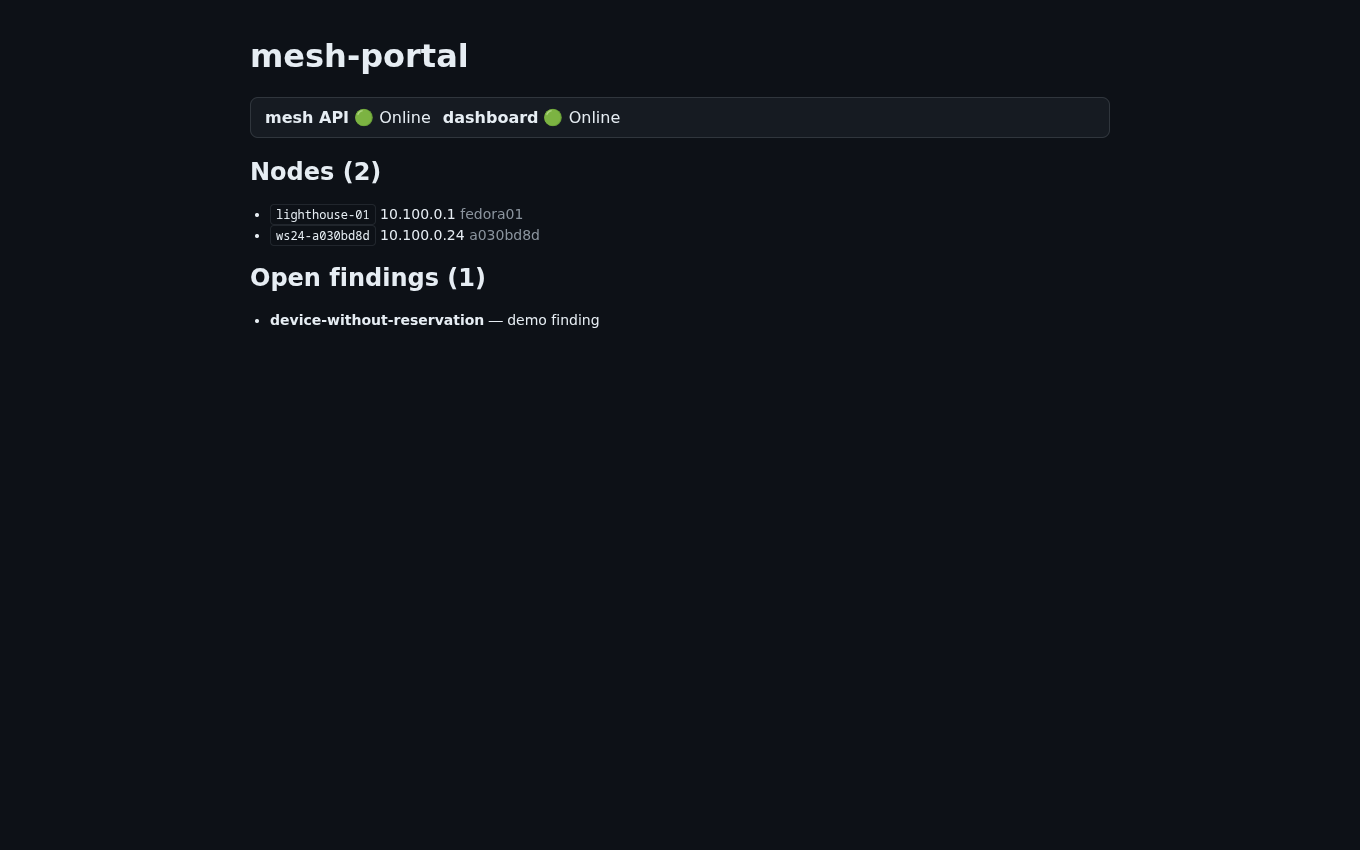
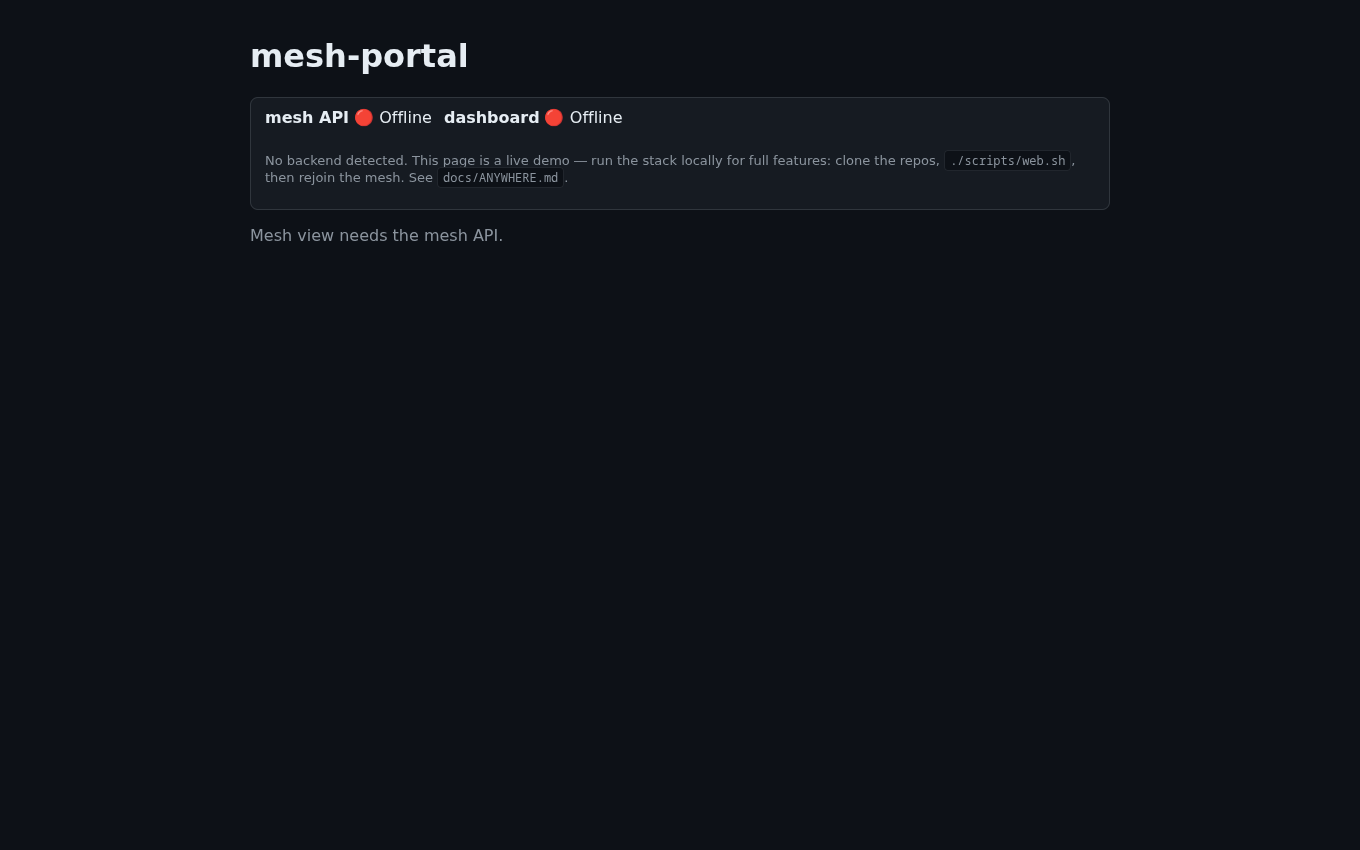
eval: both-devices matrix, retry+stagger, fresh page, LNA nuance docs

diff --git a/tests/interactive-eval.py b/tests/interactive-eval.py
@@ -34,6 +34,18 @@ STEPS = [
      "shot": "eval-03-portal-local.png"},
 ]
 
+# Both-devices API matrix: every backend on every node, from the one
+# browser. DOWN here is data, not noise — e.g. .45:5409 DOWN surfaces
+# the outstanding lighthouse adoption item.
+DEVICES = [
+    ("ws24-mesh-api", "https://10.100.0.24:5409/api/rev"),
+    ("ws24-loopback-api", "http://127.0.0.1:5409/api/rev"),
+    ("ws24-dashboard-mesh", "https://10.100.0.24:5099/api/rev"),
+    ("ws24-dashboard-loop", "https://127.0.0.1:5099/api/rev"),
+    ("lh-mesh-api", "http://10.100.0.1:5409/api/rev"),
+    ("lh-dashboard-mesh", "https://10.100.0.1:5099/api/rev"),
+]
+
 
 def classify(err_text, lna_state):
     t = (err_text or "").lower()
@@ -135,7 +147,7 @@ def main():
                   const out = {};
                   for (const [k, u] of Object.entries(urls)) {
                     try {
-                      const r = await fetch(u, {signal: AbortSignal.timeout(8000)});
+                      const r = await fetch(u, {signal: AbortSignal.timeout(12000)});
                       out[k] = 'OK ' + r.status;
                     } catch (e) { out[k] = 'ERR ' + String(e).slice(0, 80); }
                   }
@@ -150,17 +162,66 @@ def main():
                         {"step": st["name"] + ":" + k, "blocker": b_,
                          "fix": f_, "detail": v})
             report["steps"].append(rec)
-        b.close()
 
-    print(json.dumps(report, indent=1)[:4000])
-    slow_rank = sorted(report["steps"],
-                       key=lambda r: r.get("settle_ms", 0), reverse=True)
-    print("--- slowest first ---")
-    for r in slow_rank:
-        print("%s load=%sms settle=%sms blocker=%s" % (
-            r["step"], r.get("load_ms"), r.get("settle_ms"),
-            r.get("blocker")))
-    print("--- blockers: %d ---" % len(report["blockers"]))
+        # Both-devices matrix on a FRESH page (local preview origin:
+        # loopback + mesh IPs without LNA friction). Fresh page isolates
+        # connection state accumulated across the stepped navigations,
+        # which flaked loopback fetches under load.
+        pg2 = ctx.new_page()
+        pg2.goto("http://127.0.0.1:4173/", wait_until="domcontentloaded",
+                 timeout=20000)
+        pg = pg2
+        pg.wait_for_timeout(2000)
+        matrix = pg.evaluate(
+            """(async () => {
+              const devs = DEVICES_PLACEHOLDER;
+              const out = {};
+          for (const [name, u] of devs) {
+            // Stagger: the portal app probes on its own 10s cycle; spacing
+            // matrix fetches avoids burst collision on the single box.
+            // One retry: separates transient (tether/CPU) from real, and
+            // the report records which needed it.
+            await new Promise((r) => setTimeout(r, 1500));
+            let last = '';
+            for (let attempt = 0; attempt < 2; attempt++) {
+              try {
+                const r = await fetch(u, {signal: AbortSignal.timeout(12000)});
+                out[name] = 'OK ' + r.status + ' ' +
+                  (await r.text()).slice(0, 90) +
+                  (attempt ? ' (retry)' : '');
+                last = '';
+                break;
+              } catch (e) {
+                last = 'ERR ' + String(e).slice(0, 90);
+                await new Promise((r) => setTimeout(r, 2000));
+              }
+            }
+            if (last) out[name] = last;
+          }
+          return out;
+            })()""".replace("DEVICES_PLACEHOLDER", json.dumps(DEVICES)))
+        report["matrix"] = matrix
+        for name, res in matrix.items():
+            print("MATRIX %s -> %s" % (name, res))
+            if res.startswith("ERR"):
+                b_, f_ = classify(res, "")
+                # .45 endpoints DOWN is the known outstanding item, not new.
+                known = "lighthouse adoption (mesh-api not deployed there yet)"
+                report["blockers"].append(
+                    {"step": "matrix:" + name, "blocker": b_,
+                     "fix": f_ if not name.startswith("lh-") else known,
+                     "detail": res})
+
+        print(json.dumps(report, indent=1)[:4000])
+        slow_rank = sorted(report["steps"],
+                           key=lambda r: r.get("settle_ms", 0), reverse=True)
+        print("--- slowest first ---")
+        for r in slow_rank:
+            print("%s load=%sms settle=%sms blocker=%s" % (
+                r["step"], r.get("load_ms"), r.get("settle_ms"),
+                r.get("blocker")))
+        print("--- blockers: %d ---" % len(report["blockers"]))
+    b.close()
     return 0 if not report["blockers"] else 1
 
 

diff --git a/README.md b/README.md
@@ -31,11 +31,18 @@ Private-Network headers all verified end to end:
 ## Interactive evaluation
 
 `tests/interactive-eval.py` runs real `google-chrome-stable` **headed**
-(slow motion, watch on `:0`), three steps (Pages → dashboard direct →
-local preview), and reports per-step timings, console errors, pageerrors,
-plus backend probes classified into blockers (`CERT-AUTHORITY`,
-`CERT-DOMAIN`, `CORS`, `LNA-DENIED`, `DOWN`, `SLOW`, `CONSOLE`) each with
-its fix. Screenshots land in `docs/screenshots/`.
+(slow motion, watch on `:0`): three render steps, then a both-devices API
+matrix (loopback + mesh IPs, both nodes). Reports per-step timings,
+console errors, pageerrors, plus probes classified into blockers
+(`CERT-AUTHORITY`, `CERT-DOMAIN`, `CORS`, `LNA-DENIED`, `DOWN`, `SLOW`,
+`CONSOLE`) each with its fix; bottlenecks print slowest-first.
+Screenshots land in `docs/screenshots/`.
+
+Proven LNA nuance (queried live): same browser reports `prompt` on
+localhost origins but `denied` on public Pages — the permission model
+keys off requester address space, so localhost-served copies need no
+grant while public Pages always does. The UI branches on the queried
+state instead of assuming.
 
 ```bash
 python3 tests/interactive-eval.py --shots docs/screenshots --slow 400
